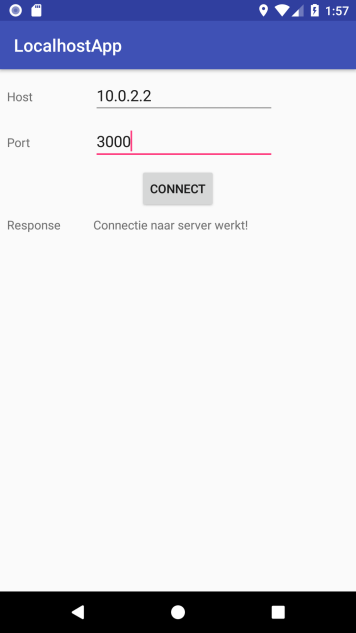
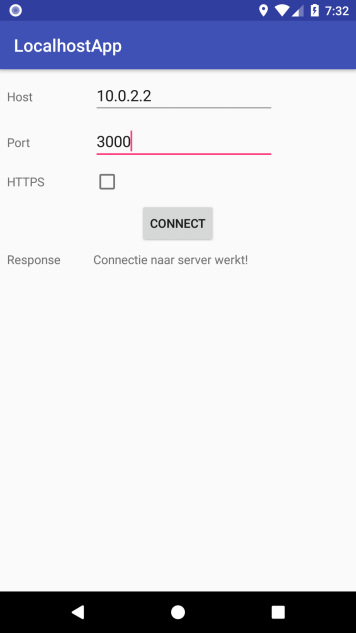
Updated docs.

diff --git a/README.md b/README.md
@@ -14,9 +14,10 @@ De server opstarten kan je doen als volgt. We doen dit vanop de **command line**
 2. `npm install`
 3. `npm run start`
 
-By default is de poort 3000. Je kan deze aanpassen in `src/index.js`.
+By default is de poort **3000** voor HTTP en **4000** voor HTTPS. Je kan deze aanpassen in `src/index.js`.
 
-**Test de werking uit met een browser door te surfen naar [http://localhost:3000](http://localhost:3000)**.
+**Test de werking uit met een browser door te surfen naar [http://localhost:3000](http://localhost:3000) en [https://localhost:4000](https://localhost:4000)**. In het geval van HTTPS zal je browser je vragen 
+of je wel wil voortgaan omdat het certificaat niet van een officiële instantie komt. Akkoord gaan en verderzetten is de boodschap.
 
 ## Android app
 
@@ -33,16 +34,19 @@ hieronder. Dus *"Connectie naar server werkt!"* of *"GEEN"*.
 
 ![/images/werkt_niet.png](/images/werkt_niet.png)
 
+Als je een HTTPS connectie wil testen maak je gebruik van **port 4000** en zet je **HTTPS** aan.
+
+![/images/werkt_https.png](/images/werkt_https.png)
+
 ## Info
 
-The SSL certificate was created using the following command:
+Het SSL certificaat werd aangemaakt met volgend commando:
 ```
-openssl req -x509 -newkey rsa:2048 -keyout key.pem -out cert.pem -days 999
+openssl req -x509 -newkey rsa:2048 -keyout key.pem -out cert.pem -days 9999
 ```
-Password is 'test'.
+Het wachtwoord (eigenlijk *passphrase*) is 'test'.
 
-## Common error messages
+# SSL certificaat
 
-# javax.net.ssl.SSLHandshakeException: java.security.cert.CertPathValidatorException: Trust anchor for certification path not found.
-
+Een echt SSL certificaat hoef je niet te ondersteunen. Voor meer info kan je o.a. hier terecht:  
 [https://developer.android.com/training/articles/security-ssl](https://developer.android.com/training/articles/security-ssl)
